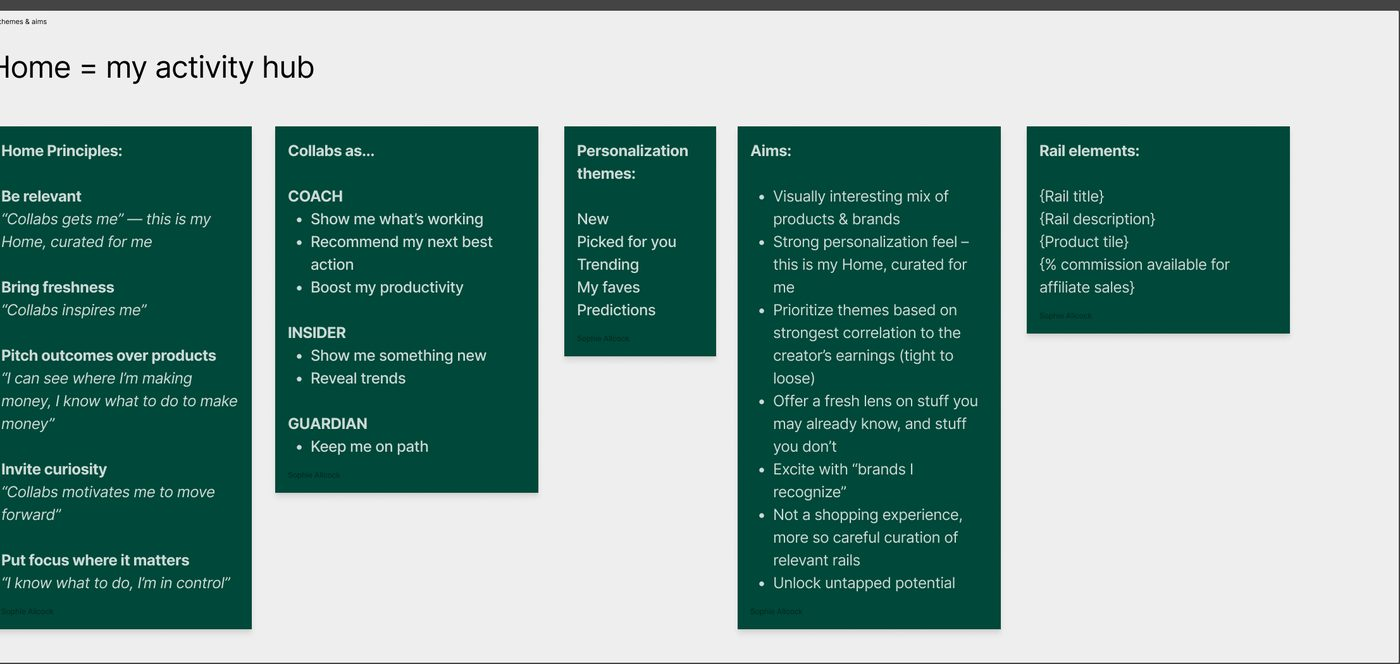
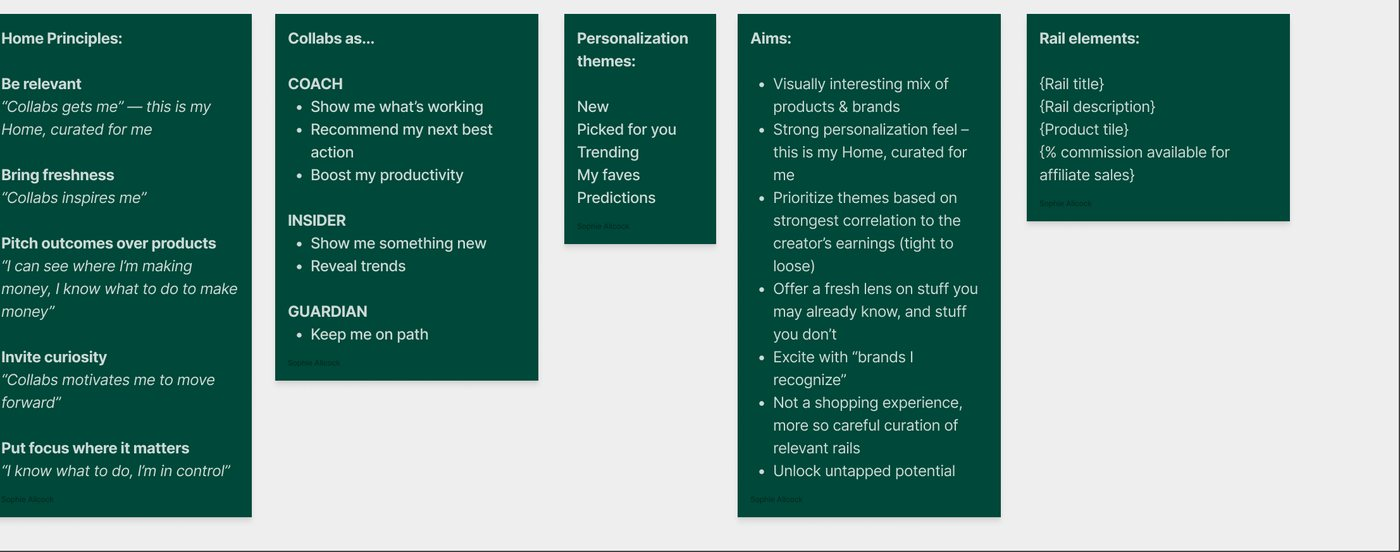
Case studies: click-to-zoom lightbox on all three; Collabs edits (unname researcher, re-crop personas image, diverse-creators note, drop 'verifiable' line, foreground systems thinking)

diff --git a/work/collabs-creator-app/index.html b/work/collabs-creator-app/index.html
@@ -300,6 +300,11 @@
   .skip-link { position: absolute; left: -9999px; top: 0; background: #231C33; color: #fff; padding: 8px 16px; z-index: 100; font-size: 14px; border-radius: 0 0 8px 0; }
   .skip-link:focus { left: 0; }
   a:focus-visible, button:focus-visible { outline: 2px solid #FF1B6B; outline-offset: 2px; }
+  figure img { cursor: zoom-in; transition: filter 0.15s ease, transform 0.15s ease; }
+  figure img:hover { filter: brightness(0.95); }
+  .lightbox { position: fixed; inset: 0; background: rgba(35,28,51,0.92); display: none; align-items: center; justify-content: center; padding: 24px; z-index: 1000; cursor: zoom-out; }
+  .lightbox.open { display: flex; }
+  .lightbox img { max-width: 96%; max-height: 96%; border-radius: 8px; box-shadow: 0 20px 60px rgba(0,0,0,0.5); }
 </style>
 </head>
 <body>
@@ -348,12 +353,12 @@
       <li>Collabs, Shopify's creator-marketing product, existed only as a mobile web experience. The team was rebuilding it as a native app, codenamed Project Phoenix.</li>
       <li>It was not a single redesign. Two connected surfaces had to ship together: the merchant admin, where brands manage collabs, and the creator app, where creators discover products, track collabs, get paid, and run a shoppable storefront for their followers.</li>
       <li>Underneath, it was really an information-architecture problem. Two audiences, two surfaces, one shared taxonomy of products, categories, brands, and collab states, and the job was making it feel like one coherent system instead of two apps bolted together.</li>
-      <li><strong>How I knew it was real:</strong> working with our UX researcher Sophie Allcock, empathy mapping surfaced a live tension, creators wanted momentum and control ("do more of what works," "keep me on track") but also simplicity and automation. And the old navigation, five flat top-level tabs, plainly couldn't scale to hold both surfaces.</li>
+      <li><strong>How I knew it was real:</strong> working with our UX researcher, empathy mapping surfaced a live tension, creators wanted momentum and control ("do more of what works," "keep me on track") but also simplicity and automation. And the old navigation, five flat top-level tabs, plainly couldn't scale to hold both surfaces.</li>
       <li><strong>The goal:</strong> one system that read as a single product to two different people, a merchant configuring a collab and a creator posting and getting paid, without either side feeling like an afterthought.</li>
     </ul>
     <figure>
       <img src="../../images/work/collabs/02-empathy-map.jpg" alt="Creator empathy map: 'As a creator using Collabs, I feel...' and 'What I need...' research synthesis">
-      <figcaption>Early creator research (with researcher Sophie Allcock) surfaced the real tension: momentum and control, but also simplicity and automation.</figcaption>
+      <figcaption>Early creator research (with our UX researcher) surfaced the real tension: momentum and control, but also simplicity and automation.</figcaption>
     </figure>
     <figure>
       <img src="../../images/work/collabs/09-ia-before-after-nav.jpg" alt="FigJam board comparing the core current navigation against the redesigned 2023 navigation, level 1 to 4">
@@ -411,7 +416,7 @@
         <figcaption>Content and logic in one artifact, so the rules shipped with the design.</figcaption>
       </figure>
       <ul class="points">
-        <li><strong>Designed the buyer-facing side of the same system:</strong> a shoppable creator storefront (a TikTok-style feed to "Shop this look" to curated collections like "Marielle's Minimal Winter") so a creator's own audience could shop straight from their content. This is the content-commerce half, the other side of the same taxonomy.</li>
+        <li><strong>Designed the buyer-facing side of the same system:</strong> a shoppable creator storefront (a TikTok-style feed to "Shop this look" to curated collections like "Marielle's Minimal Winter") so a creator's own audience could shop straight from their content. This is the content-commerce half, the other side of the same taxonomy. We deliberately designed these screens with a diverse cast of creators, so the product's tone was set by the real range of people who use it.</li>
       </ul>
       <figure>
         <img src="../../images/work/collabs/15-buyer-experience-updated.jpg" alt="The shoppable creator storefront a buyer sees: creator profile, content post, Shop this look, and curated collections">
@@ -448,7 +453,7 @@
         <figcaption>A documented decision, live: commission math surfaced on the product page ("Buyer pays $189.00 / You earn $28.35"), shot from my own phone a year after the work.</figcaption>
       </figure>
       <ul class="points">
-        <li><strong>The merchant-admin half shipped too, and it's public.</strong> Shopify's Editions Winter '24 page lists seven live Collabs features: creator search and filters, automatic commission payouts, consolidated creator profiles, bulk application management, a unified connections table, per-segment affiliate offers, and TikTok Shop sync. Verifiable, not an internal claim.</li>
+        <li><strong>The merchant-admin half shipped too, and it's public.</strong> Shopify's Editions Winter '24 page lists seven live Collabs features: creator search and filters, automatic commission payouts, consolidated creator profiles, bulk application management, a unified connections table, per-segment affiliate offers, and TikTok Shop sync.</li>
       </ul>
       <figure>
         <img src="../../images/work/collabs/11-shopify-editions-winter24-public.jpg" alt="Public Shopify Editions Winter 24 page showing shipped Collabs merchant features">
@@ -459,7 +464,7 @@
     <section>
       <h2>What I learned</h2>
       <ul class="points">
-        <li>The information architecture was the real test. Everything was interconnected, so getting the scaffolding right mattered more than any single screen. It was the clearest chance I've had to hold a whole shared taxonomy in my head at once, not just apply systems thinking to one flow.</li>
+        <li>The information architecture was the real test, and it demanded systems thinking, not screen-by-screen writing. Everything was interconnected, so holding the whole shared taxonomy in my head at once mattered more than any single screen. Leaning on that systems view is what kept two surfaces reading as one product, and it's the muscle this project pushed furthest for me.</li>
         <li>The values-step drop-off taught me something about how "optional" reads to people. Creators treated it as a "maybe later" step, and a good chunk never came back. If I had more time, I'd make its value clearer in the moment or rethink where it sits in the flow.</li>
         <li>Working across both surfaces let me see the full loop, the merchant managing a collab and the creator posting and getting paid. Very few projects let you sit with both halves of a relationship at once, and it changed how I thought about the taxonomy: a decision that looked small on the admin side could become real friction on the creator side.</li>
       </ul>
@@ -503,5 +508,18 @@
   })();
 </script>
 
+<div class="lightbox" id="lightbox" aria-hidden="true"><img alt="Enlarged view"></div>
+<script>
+  (function () {
+    var lb = document.getElementById('lightbox');
+    var lbImg = lb.querySelector('img');
+    document.addEventListener('click', function (e) {
+      var im = e.target.closest('figure img');
+      if (im) { lbImg.src = im.src; lb.classList.add('open'); return; }
+      if (e.target === lb || e.target === lbImg) lb.classList.remove('open');
+    });
+    document.addEventListener('keydown', function (e) { if (e.key === 'Escape') lb.classList.remove('open'); });
+  })();
+</script>
 </body>
 </html>

diff --git a/work/gravity/index.html b/work/gravity/index.html
@@ -271,6 +271,11 @@
   .skip-link { position: absolute; left: -9999px; top: 0; background: #231C33; color: #fff; padding: 8px 16px; z-index: 100; font-size: 14px; border-radius: 0 0 8px 0; }
   .skip-link:focus { left: 0; }
   a:focus-visible, button:focus-visible { outline: 2px solid #FF1B6B; outline-offset: 2px; }
+  figure img { cursor: zoom-in; transition: filter 0.15s ease, transform 0.15s ease; }
+  figure img:hover { filter: brightness(0.95); }
+  .lightbox { position: fixed; inset: 0; background: rgba(35,28,51,0.92); display: none; align-items: center; justify-content: center; padding: 24px; z-index: 1000; cursor: zoom-out; }
+  .lightbox.open { display: flex; }
+  .lightbox img { max-width: 96%; max-height: 96%; border-radius: 8px; box-shadow: 0 20px 60px rgba(0,0,0,0.5); }
 </style>
 </head>
 <body>
@@ -436,5 +441,18 @@
   })();
 </script>
 
+<div class="lightbox" id="lightbox" aria-hidden="true"><img alt="Enlarged view"></div>
+<script>
+  (function () {
+    var lb = document.getElementById('lightbox');
+    var lbImg = lb.querySelector('img');
+    document.addEventListener('click', function (e) {
+      var im = e.target.closest('figure img');
+      if (im) { lbImg.src = im.src; lb.classList.add('open'); return; }
+      if (e.target === lb || e.target === lbImg) lb.classList.remove('open');
+    });
+    document.addEventListener('keydown', function (e) { if (e.key === 'Escape') lb.classList.remove('open'); });
+  })();
+</script>
 </body>
 </html>

diff --git a/work/shop-assistant/index.html b/work/shop-assistant/index.html
@@ -277,6 +277,11 @@
   .skip-link { position: absolute; left: -9999px; top: 0; background: #231C33; color: #fff; padding: 8px 16px; z-index: 100; font-size: 14px; border-radius: 0 0 8px 0; }
   .skip-link:focus { left: 0; }
   a:focus-visible, button:focus-visible { outline: 2px solid #FF1B6B; outline-offset: 2px; }
+  figure img { cursor: zoom-in; transition: filter 0.15s ease, transform 0.15s ease; }
+  figure img:hover { filter: brightness(0.95); }
+  .lightbox { position: fixed; inset: 0; background: rgba(35,28,51,0.92); display: none; align-items: center; justify-content: center; padding: 24px; z-index: 1000; cursor: zoom-out; }
+  .lightbox.open { display: flex; }
+  .lightbox img { max-width: 96%; max-height: 96%; border-radius: 8px; box-shadow: 0 20px 60px rgba(0,0,0,0.5); }
 </style>
 </head>
 <body>
@@ -459,5 +464,18 @@
   })();
 </script>
 
+<div class="lightbox" id="lightbox" aria-hidden="true"><img alt="Enlarged view"></div>
+<script>
+  (function () {
+    var lb = document.getElementById('lightbox');
+    var lbImg = lb.querySelector('img');
+    document.addEventListener('click', function (e) {
+      var im = e.target.closest('figure img');
+      if (im) { lbImg.src = im.src; lb.classList.add('open'); return; }
+      if (e.target === lb || e.target === lbImg) lb.classList.remove('open');
+    });
+    document.addEventListener('keydown', function (e) { if (e.key === 'Escape') lb.classList.remove('open'); });
+  })();
+</script>
 </body>
 </html>